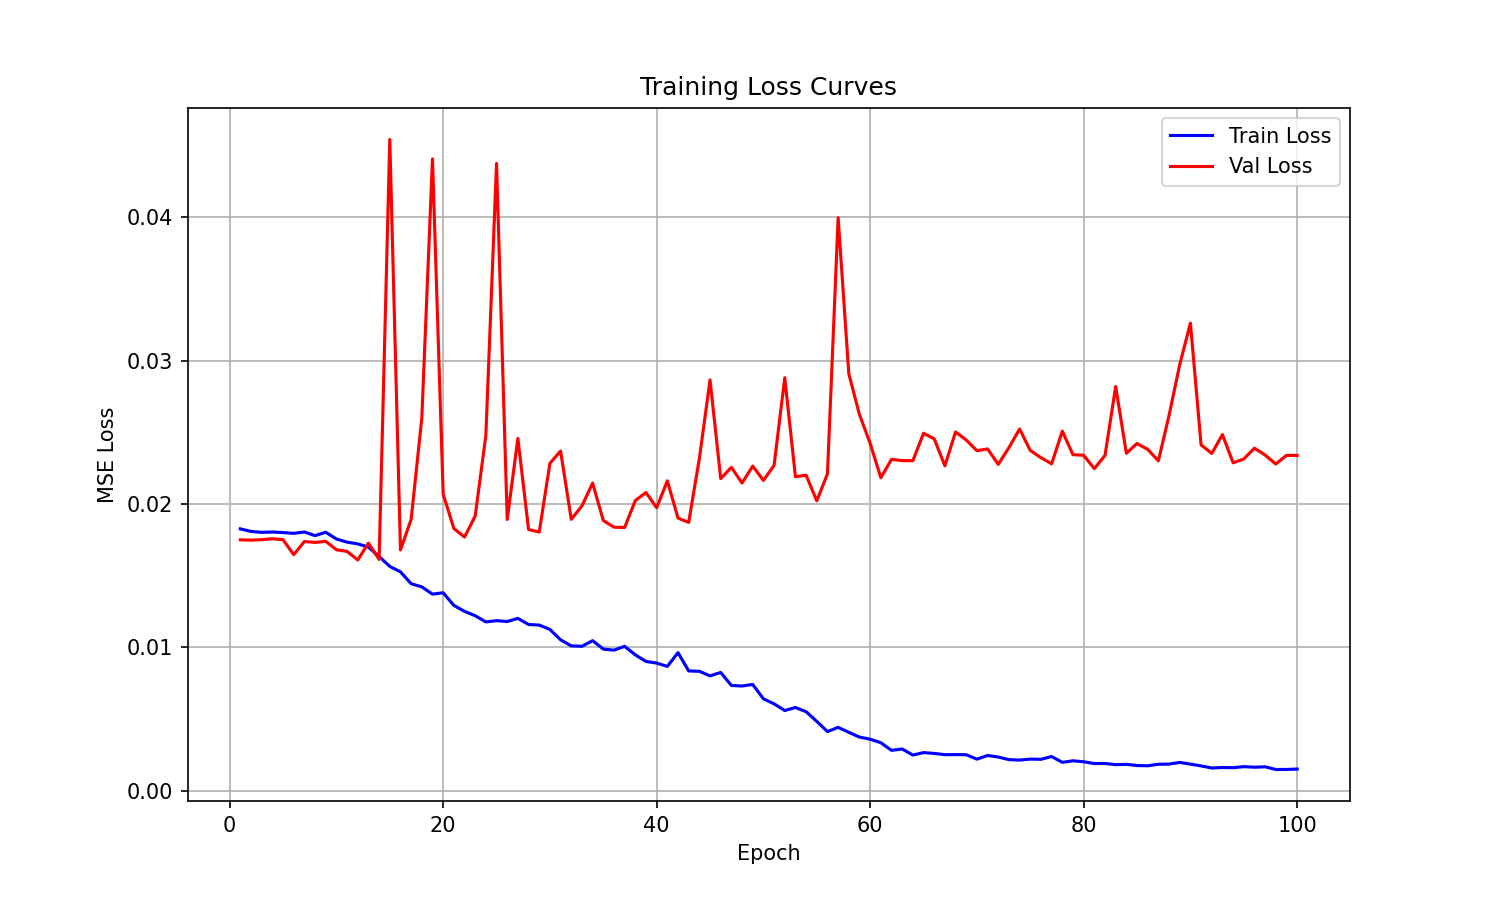
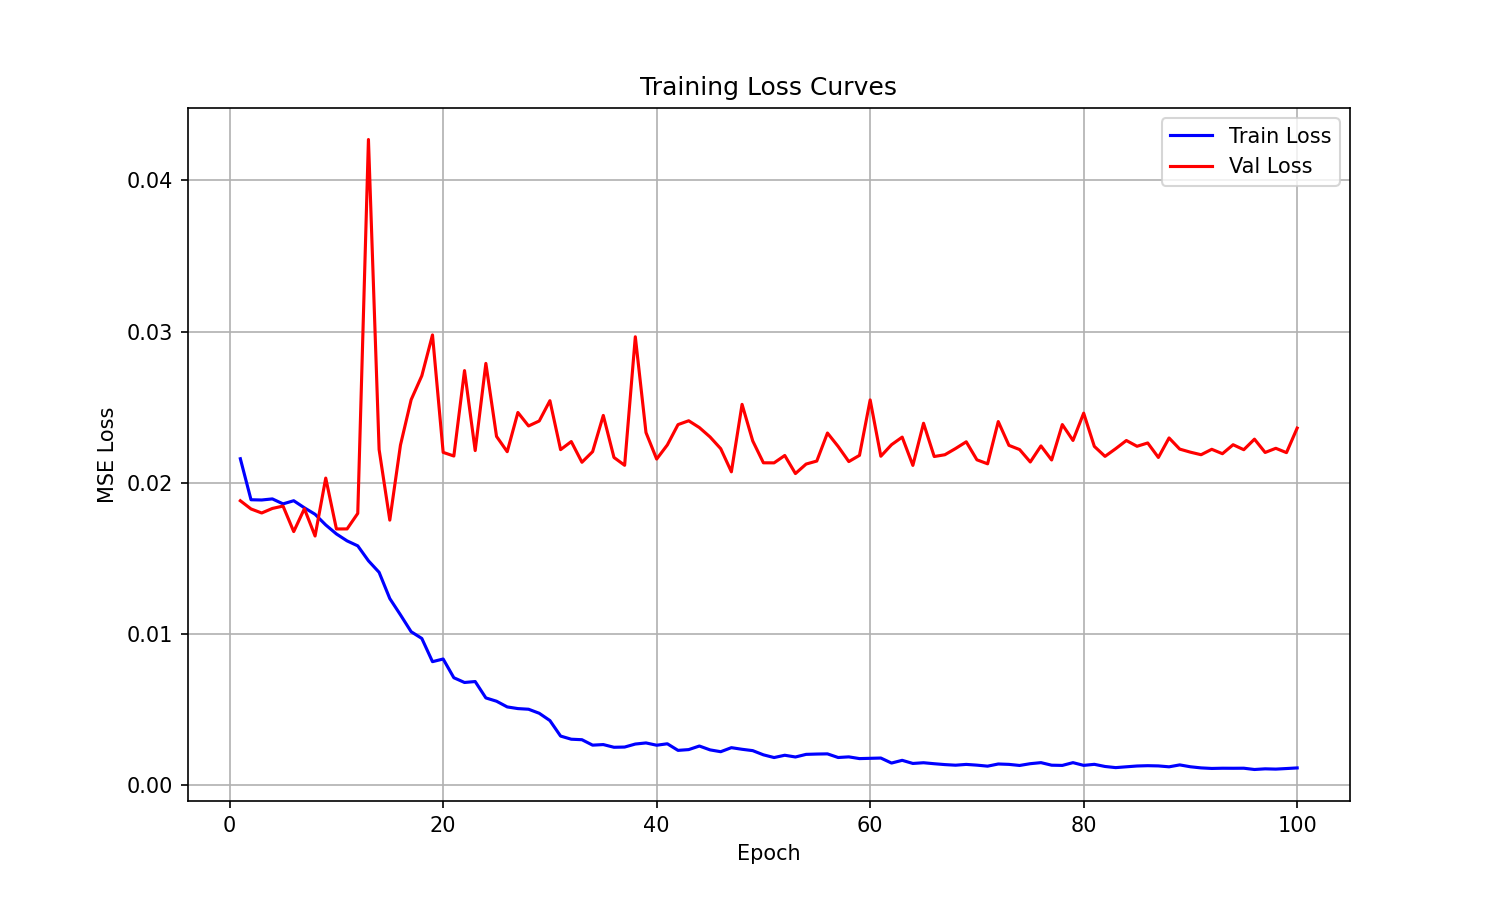
updated docs

diff --git a/model.py b/model.py
@@ -1,6 +1,6 @@
 import torch
 import torch.nn as nn
-import torch.nn.functional as F
+import math
 
 
 class VisionEncoder(nn.Module):
@@ -44,35 +44,52 @@ class TextEncoder(nn.Module):
         return x
 
 
-class PathDecoder(nn.Module):
-    def __init__(self, input_dim=320, hidden_dim=512, num_points=10):
+class TransformerPathDecoder(nn.Module):
+    def __init__(self, input_dim=320, hidden_dim=128, num_points=10, num_heads=4, num_layers=2):
         super().__init__()
-        self.mlp = nn.Sequential(
-            nn.Linear(input_dim, hidden_dim),
-            nn.ReLU(),
-            nn.Dropout(0.1),
-            nn.Linear(hidden_dim, hidden_dim),
-            nn.ReLU(),
-            nn.Dropout(0.1),
-            nn.Linear(hidden_dim, 256),
-            nn.ReLU(),
-            nn.Linear(256, num_points * 2),
-        )
         self.num_points = num_points
+        self.hidden_dim = hidden_dim
+        
+        self.input_proj = nn.Linear(input_dim, hidden_dim)
+        
+        self.position_embed = nn.Embedding(num_points, hidden_dim)
+        
+        encoder_layer = nn.TransformerEncoderLayer(
+            d_model=hidden_dim,
+            nhead=num_heads,
+            dim_feedforward=hidden_dim * 4,
+            dropout=0.1,
+            batch_first=True
+        )
+        self.transformer = nn.TransformerEncoder(encoder_layer, num_layers=num_layers)
+        
+        self.output_proj = nn.Linear(hidden_dim, 2)
 
     def forward(self, x):
-        x = self.mlp(x)
-        x = x.view(x.size(0), self.num_points, 2)
-        x = torch.sigmoid(x)
-        return x
+        batch_size = x.size(0)
+        
+        context = self.input_proj(x)
+        
+        positions = torch.arange(self.num_points, device=x.device)
+        pos_embed = self.position_embed(positions)
+        
+        queries = pos_embed.unsqueeze(0).expand(batch_size, -1, -1)
+        queries = queries + context.unsqueeze(1)
+        
+        out = self.transformer(queries)
+        
+        coords = self.output_proj(out)
+        coords = torch.sigmoid(coords)
+        
+        return coords
 
 
 class NeuralNavigator(nn.Module):
-    def __init__(self, vocab_size=10, vision_dim=256, text_dim=64, hidden_dim=512, num_points=10):
+    def __init__(self, vocab_size=10, vision_dim=256, text_dim=64, hidden_dim=128, num_points=10):
         super().__init__()
         self.vision_encoder = VisionEncoder(output_dim=vision_dim)
         self.text_encoder = TextEncoder(vocab_size=vocab_size, output_dim=text_dim)
-        self.decoder = PathDecoder(
+        self.decoder = TransformerPathDecoder(
             input_dim=vision_dim + text_dim,
             hidden_dim=hidden_dim,
             num_points=num_points

diff --git a/README.md b/README.md
@@ -1,42 +1,39 @@
 # Neural Navigator
 
-A neural network that learns to navigate through a 2D map. Give it an image with shapes and tell it where to go ("Go to the Red Circle"), and it figures out a path to get there.
+Neural network that takes a 2D map image and a text command ("Go to the Red Circle") and outputs a path to the target.
 
-## The Problem
-
-Input: A 128x128 image with colored shapes + a text command  
-Output: 10 waypoints forming a path from center to the target
-
-## How I Approached It
-
-The model needs to understand both the image (where things are) and the text (what to look for). So I built two separate encoders:
-
-- **Vision encoder**: A CNN that looks at the image and learns to recognize shape positions
-- **Text encoder**: Converts words into numbers the model can work with
-
-These two get combined and fed into a decoder that outputs the path coordinates.
-
-## Why These Choices
-
-**CNN for images** - Standard approach for learning spatial features. 4 layers was enough given the simple images.
-
-**Simple word embeddings** - Since there's only 9 possible commands ("Go to the [color] [shape]"), I didn't need anything fancy. Just mapped each word to a learnable vector.
-
-**Normalized coordinates** - Instead of predicting pixel values (0-128), I normalized everything to 0-1. Makes training more stable.
-
-**MSE loss** - Straightforward choice for coordinate regression. Penalizes predictions that are far from ground truth.
-
-## Running It
+## How to Run
 
 ```
-python train.py      # trains the model
-python predict.py    # generates path predictions on test images
+python train.py      # train the model
+python predict.py    # run predictions on test images
 ```
 
-## Challenges
+## Challenges & Solutions
 
-The model learns the right direction but tends to predict shorter paths than the ground truth. This is a known limitation of MSE loss - predicting "average" values minimizes error even if the path doesn't fully reach the target.
+### What was the hardest part?
 
-## Results
+Getting the paths to actually reach the targets. The model kept predicting coordinates close to the center of the image instead of extending toward the shapes. This happens because MSE loss doesn't care if you're conservative - predicting middle-ish values gives decent error scores even if the path is too short.
 
-Training converges well. The predicted paths point toward the correct targets, though they're more conservative than the training data paths.
+I tried different things: added BatchNorm, tried Dropout, played with learning rates. Eventually switched to a Transformer decoder which helped a bit with learning the sequence of waypoints, but the core issue is really the loss function not being ideal for path prediction.
+
+### A bug I ran into
+
+Early on the model was ignoring the text command completely - paths would go random directions regardless of what shape I told it to find.
+
+Turned out my tokenizer was case-sensitive. The vocabulary had "Red" but the input text was "red" (lowercase). So everything was getting mapped to the padding token.
+
+Debugging steps:
+1. Noticed loss was still decreasing, so model was learning something
+2. Visualized predictions - saw they didn't correlate with text at all
+3. Added print statements in data loader to see actual token values
+4. Found all tokens were 0 (padding)
+5. Fixed by adding `.lower()` when looking up words
+
+Took me like 20 min to find a one-line fix.
+
+### Results
+
+- Best validation MSE: ~0.016
+- Model correctly identifies which shape to go to based on text
+- Paths point in right direction but are shorter than ground truth
